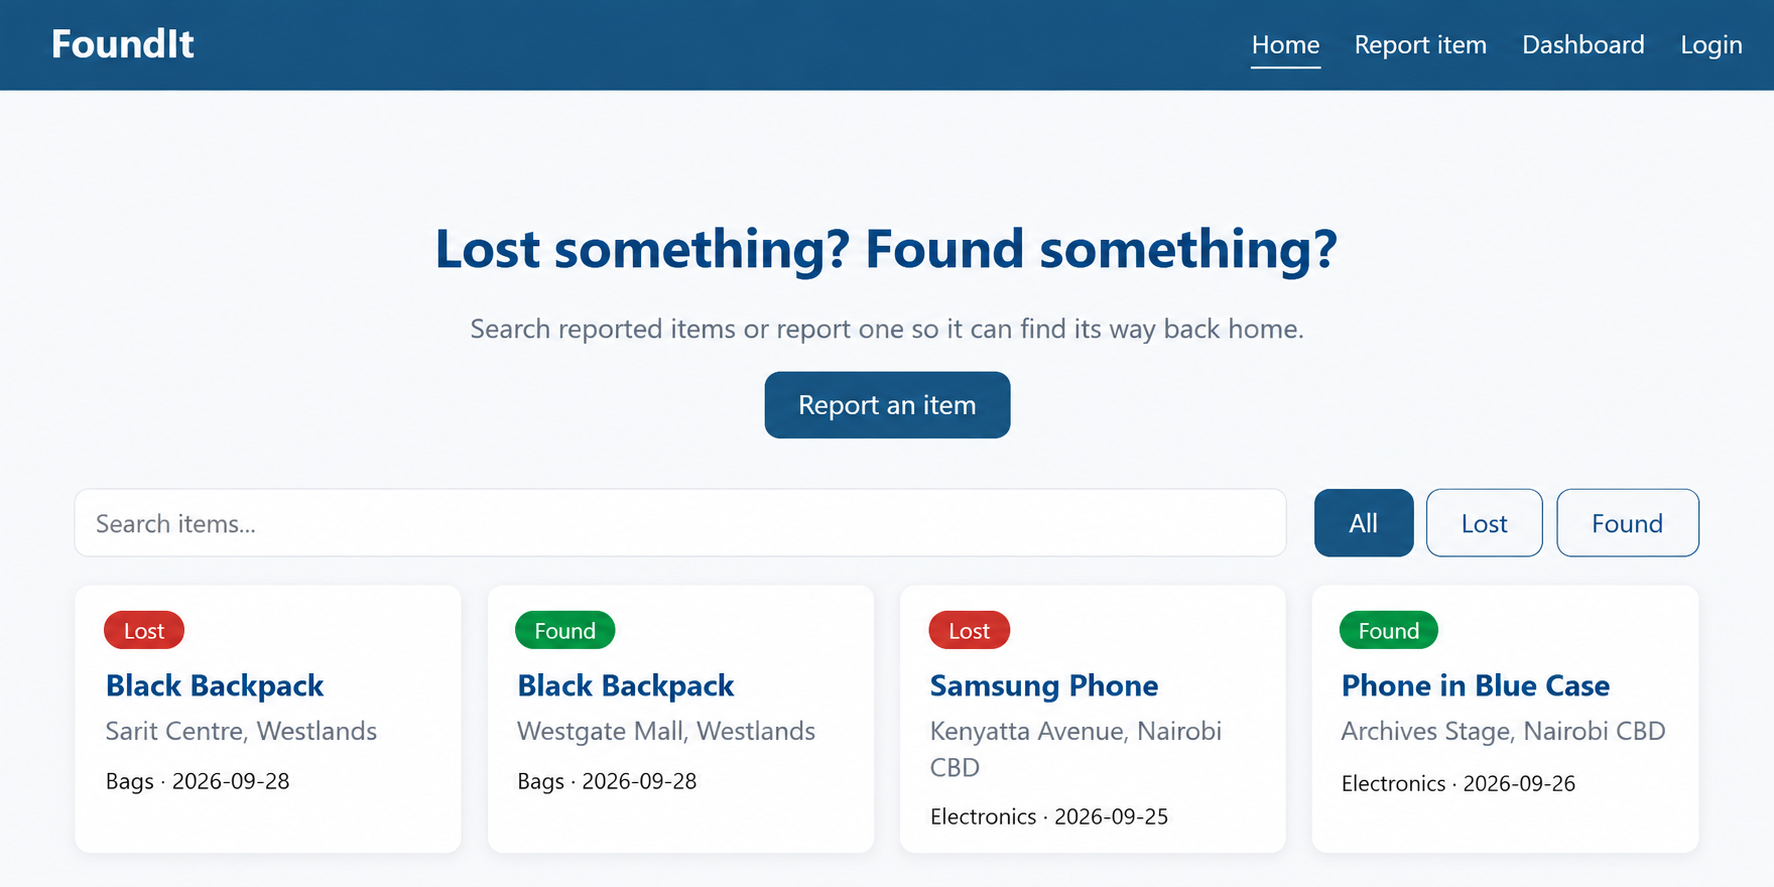
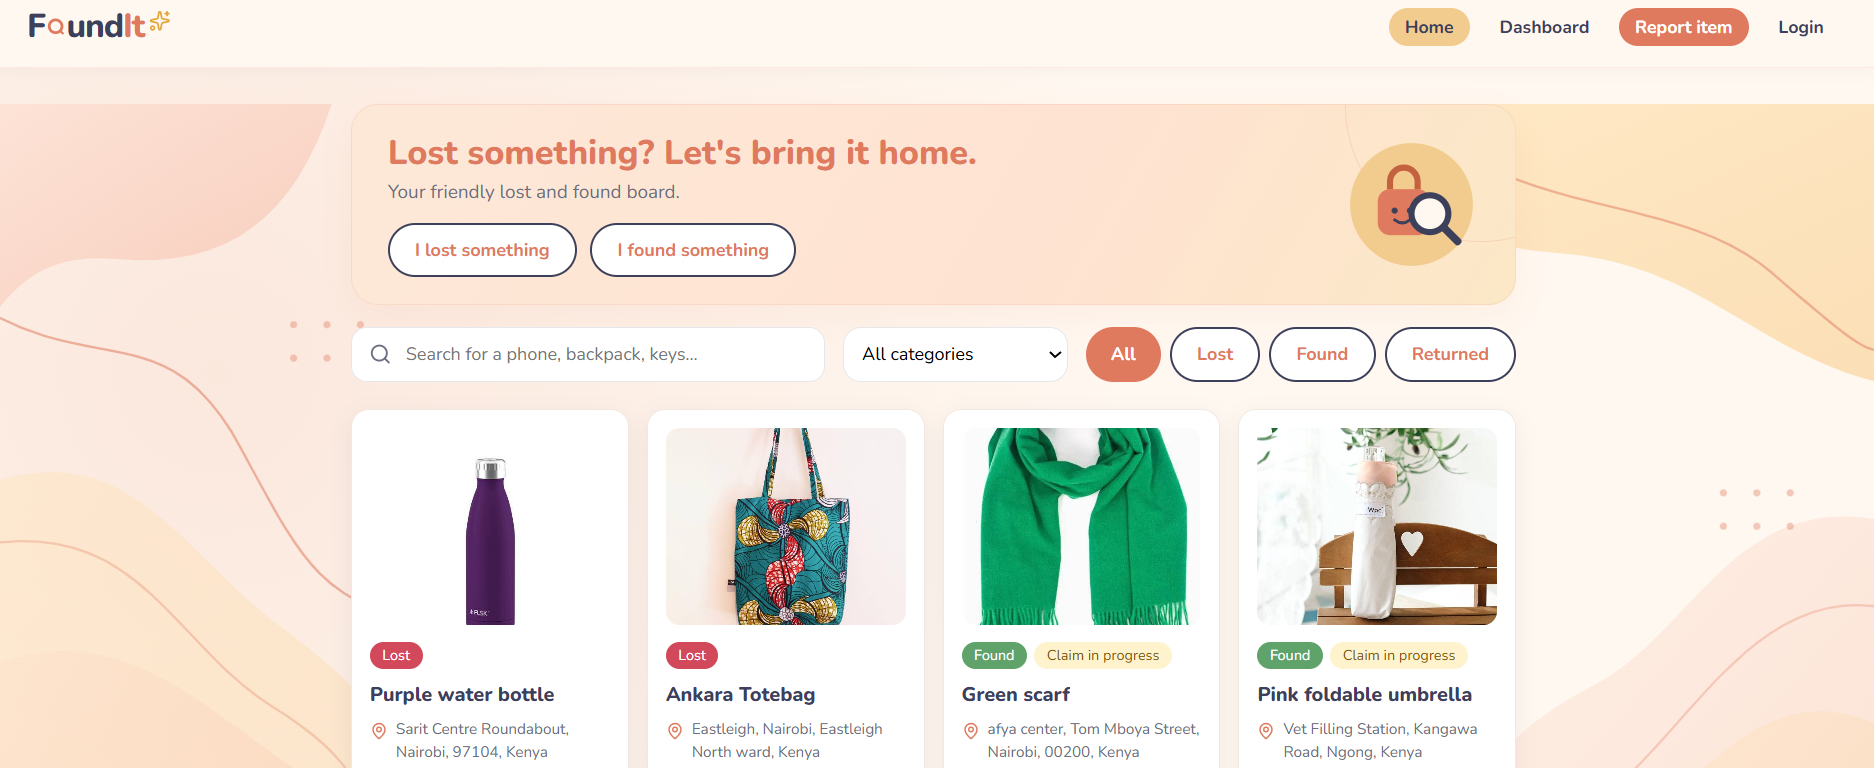
Update README with new features, routes, backend steps and screenshot

diff --git a/README.md b/README.md
@@ -1,30 +1,28 @@
 # FoundIt - Lost & Found App
 
 ## Description
-FoundIt is a Single Page Application (SPA) built with React that helps people report, search for and recover lost items.
+FoundIt is a full-stack web application that helps people report, search for and recover lost items. The frontend is built with React and the backend with Flask and PostgreSQL.
 
 The application provides a central platform for lost and found reports instead of relying on scattered WhatsApp groups, social media posts, word of mouth or physical lost-and-found offices.
 
 FoundIt also helps users identify possible matches between lost and found reports by comparing details such as item category, date, location and description. Users can view possible matching items and submit private ownership verification details when claiming a found item.
 
-Phase 1 is frontend-only and uses mock data.
+This repository contains the React frontend. It connects to the [FoundIt backend](https://github.com/trizahn2002-source/foundit-backend), a separate repository that stores users, reports and claims.
 
 ## Screenshot
 <img src="src/assets/screenshot.png" alt="FoundIt App" width="800"/> 
 
 ## Features
-- Browse reported lost and found items
-- Search and filter item reports
-- Report a lost or found item
-- View full item details on a dedicated details page
-- Find possible matches for active lost items
-- Rank stronger possible matches first
-- View possible matching found items
-- Submit a claim for an active found item
-- Provide private ownership verification details when making a claim
-- Display confirmation after a claim is submitted
-- Display an empty state when no possible matches are found
-- Navigate between pages without reloading the application
+- Register and log in with email verification or Google sign-in, with password recovery and account settings
+- Browse, search and filter lost, found and returned items
+- Report a lost or found item with a photo, date and location (Geoapify address search)
+- View full item details on a dedicated page, with a map link and a share button
+- Find and rank possible matches for active lost items
+- Submit a claim with private ownership verification details
+- Finders approve or reject claims from their dashboard and mark items as handed over
+- Email notifications when a claim is received, approved or rejected
+- Optional tip for the finder, shown as a sandbox demo (no real payments)
+- Personal dashboard and a responsive layout for phones and desktops
 
 ## How Possible Matching Works
 FoundIt uses rule-based matching to identify possible matches between lost and found reports.
@@ -44,10 +42,14 @@ A possible match does not automatically confirm that two reports refer to the sa
 | Route | Page |
 |---|---|
 | `/` | Home - browse, search and filter items |
-| `/report` | Report a lost or found item |
-| `/items/:id` | View item details, possible matches or claim an item |
-| `/dashboard` | User dashboard |
+| `/report` | Report a lost or found item (login required) |
+| `/items/:id` | View item details, share the item, see possible matches, claim an item or review claims |
+| `/dashboard` | User dashboard - reports, claims, claim requests and account settings |
 | `/login` | Login / register |
+| `/login/verify-otp` | Enter the one-time code to finish logging in |
+| `/verify-email` | Confirm your email address after registering |
+| `/forgot-password` | Request a password reset email |
+| `/reset-password` | Set a new password from the reset link |
 | `*` | Not Found page |
 
 ## How to Run the Project
@@ -78,13 +80,33 @@ cp .env.example .env
 
 5. Add your Geoapify API key to the `.env` file.
 
-6. Start the development server:
+6. Set up and start the backend. FoundIt needs its backend running, otherwise the frontend shows a "database couldn't be reached" error. Clone the FoundIt backend repository (a separate repository), go into its folder and install its dependencies:
+
+```bash
+git clone git@github.com:trizahn2002-source/foundit-backend.git
+cd foundit-backend
+pipenv install
+```
+
+7. Start PostgreSQL:
+
+```bash
+sudo service postgresql start
+```
+
+8. In a separate terminal, run the backend from its folder:
+
+```bash
+pipenv run python app.py
+```
+
+9. Back in the frontend terminal, start the development server:
 
 ```bash
 npm run dev
 ```
 
-7. Open the local URL displayed in the terminal.
+10. Open the local URL displayed in the terminal.
 
 ## Technologies Used
 - React
@@ -93,6 +115,9 @@ npm run dev
 - JavaScript
 - CSS3
 - Geoapify Geocoding API
+- Flask and PostgreSQL backend (separate repository)
+- Gmail API (verification and claim emails, sent by the backend)
+- Vercel (frontend hosting)
 - Git and GitHub
 
 ## API Used
@@ -101,20 +126,17 @@ FoundIt uses the Geoapify Geocoding API for location functionality when reportin
 The API key should be stored in the `.env` file and should not be committed to GitHub.
 
 ## Future Implementations
-- Connect the application to a backend and database
-- Add full user authentication
-- Store reports and submitted claims permanently
-- Allow finders to review and approve ownership claims
+- Replace the sandbox M-Pesa tipping demo with live payments
 - Notify users when new possible matches are found
-- Add image upload and storage
+- Add a hamburger menu for the mobile navbar if more links are added
 - Improve the matching system as more reports are added
 
 ## Collaborators
 - [Trizah Njeri](https://github.com/trizahn2002-source) — Scrum Master, Home Page, Search and Filtering
 - [Abigail Tandiwe](https://github.com/tandisimelane-15) — Possible Matches and Claim Item
-- [Samuel Mwaura](GitHub-link) — Report Item Form and Geoapify API
+- [Samuel Mwaura](https://github.com/kimz-art) — Report Item Form and Geoapify API
 - [Regan Njeru](https://github.com/toshregan94-hub) — Item Details
-- [Wesley Were](GitHub-link) — Login, Registration and Dashboard
+- [Wesley Were](https://github.com/WesleyWanga) — Login, Registration and Dashboard
 
 ## How to Contribute
 1. Create a feature branch for your task
